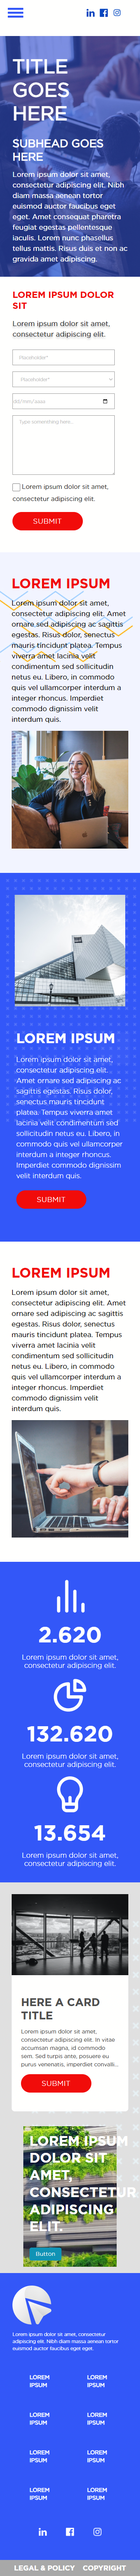
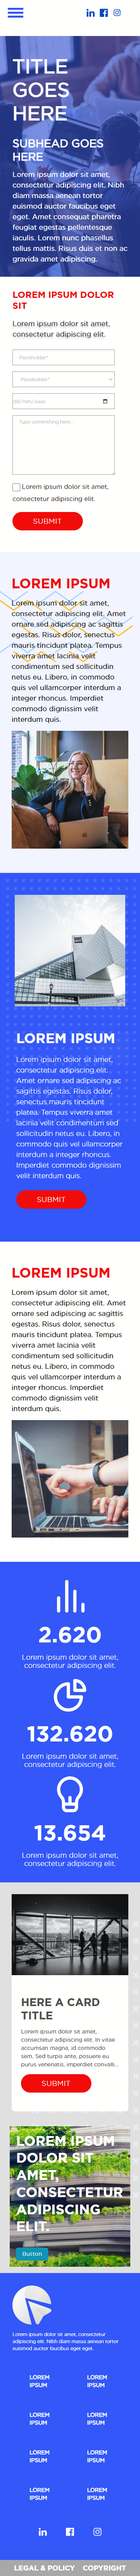
ajuste redme y screencapture mobile

Changed region(s): [[0.0611, 0.8099, 0.9472, 0.9034]]

diff --git a/src/styles/section-five.scss b/src/styles/section-five.scss
@@ -111,7 +111,7 @@
         width: 100%;
     }
     .post{
-        width: 90%;
+        max-width: 90%;
         height: auto;
     }
     .post-h3{

diff --git a/README.md b/README.md
@@ -1,33 +1,23 @@
-# Implementacion geoportal 2019
+# Prueba OTF - Landing
 
-Maria Alejandra Tellez Rodriguez
-Bogotá, Colombia
-matellezr@dane.gov.co
+Karen Milena Buitrago López
+karenmbuitrago@gmail.com
 
-## Para empezar
+## Para compilar este proyecto!
 
-Se debe tener instalado gulp en el ordenador, para poder visualizar localmente.
+Este proyecto esta creado con el lenguaje de estilos Sass para compilar el Css, por lo que como sugerencia rápida puedes hacer los siguientes pasos.
+
+1. Clonar el proyecto desde github
+2. Instalar un compilador como Parcel: 
+```
+$ npm install parcel
+```
+3. En tu git bash compilar de la siguiente forma:
 
 ```
-$ npm install gulp -g
+$ parcel src/html/index.html
 ```
 
-### Dependencias
-
-Se debe instalar las dependencias del proyecto.
-
-```
-$ npm install
-```
-npm install --save-dev gulp
-
-## Compilar
-
-Teniendo todo instalado, ahora debe compilar.
-
-```
-$ gulp
-```
 
 ## Autores / créditos
-* **Alejandra Tellez** - *Desarrollo y maquetacion de la plantilla del Geoportal 2019*
+* **Karen Buitrago** - *Prueba landing page OTF*
